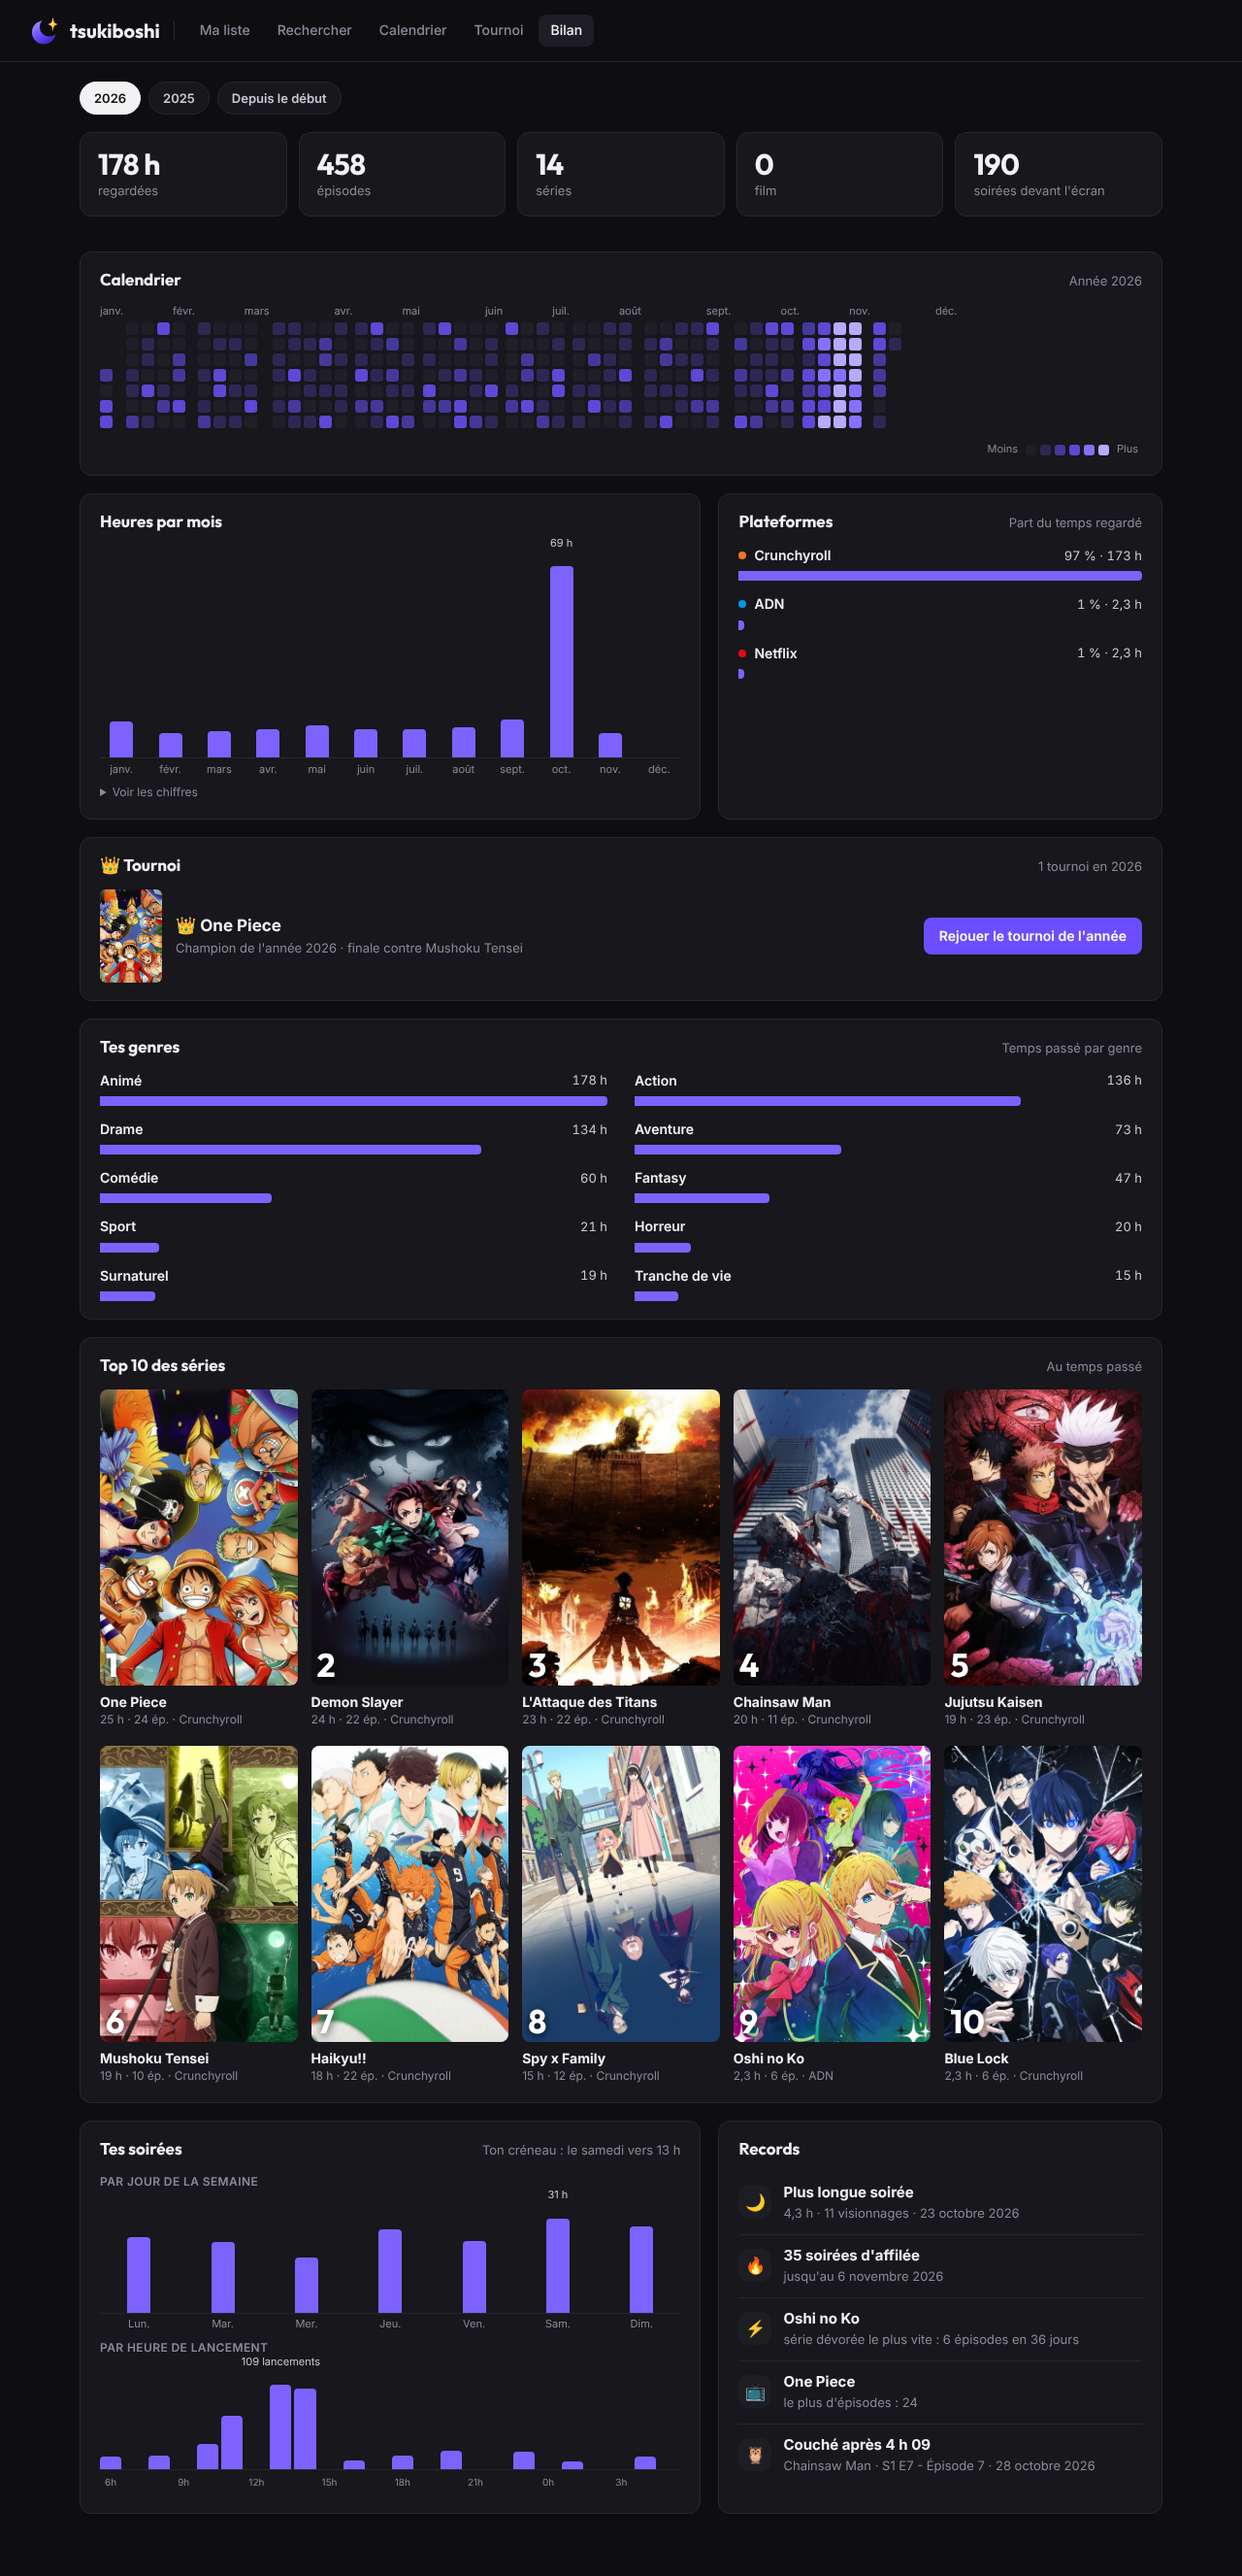
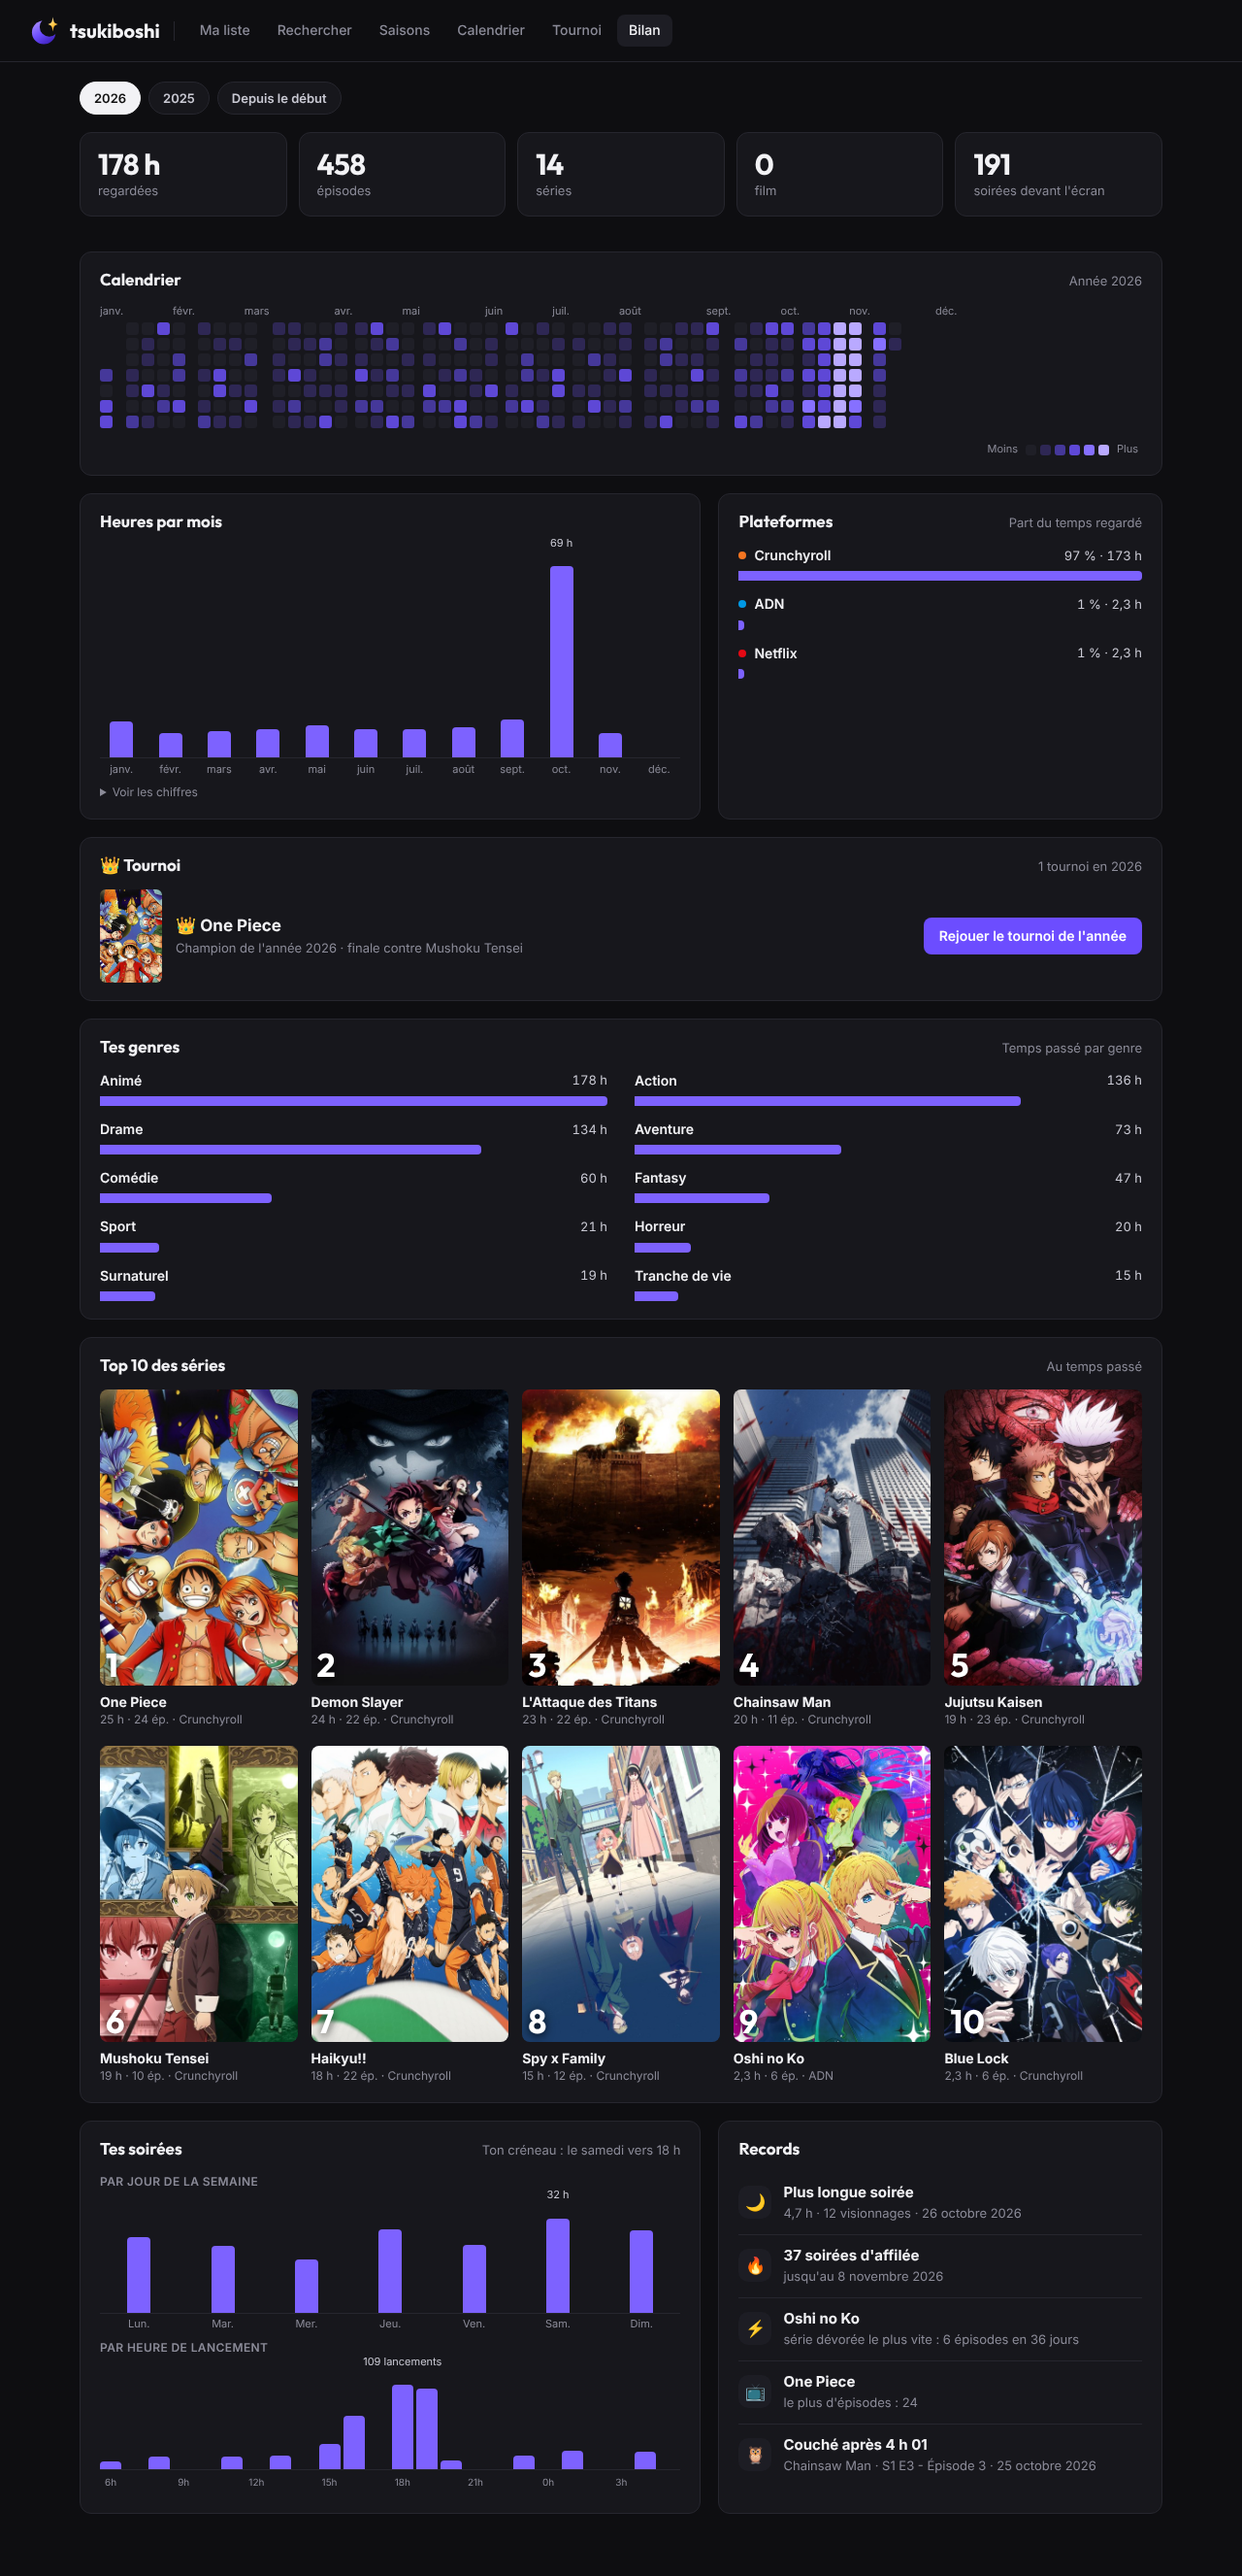
Captures 5.12 : Saisons, tier list, GIF avec tous les onglets
Claude-Session: https://claude.ai/code/session_01QCPTbr1wafCenqzz5fL37Q

Changed region(s): [[0.1562, 0.9273, 0.375, 0.9582], [0.6562, 0.1236, 0.7188, 0.1545]]

diff --git a/README.md b/README.md
@@ -35,6 +35,10 @@ Extension pour **Chrome, Edge, Opera, Brave et Vivaldi** qui récupère tout ton
 |---|---|
 | ![Fiche](docs/fiche.png) | ![Ce soir](docs/ce-soir.png) |
 
+| Saisons : « Je veux voir » | Tier list du tournoi |
+|---|---|
+| ![Saisons](docs/saison.png) | ![Tier list](docs/tier-list.png) |
+
 | Calendrier des sorties (VO, VOSTFR, VF) | Rechercher un animé |
 |---|---|
 | ![Calendrier](docs/calendrier.png) | ![Rechercher](docs/recherche.png) |
